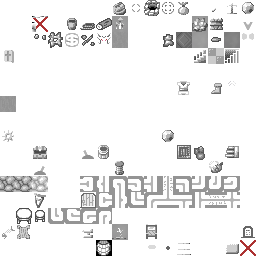
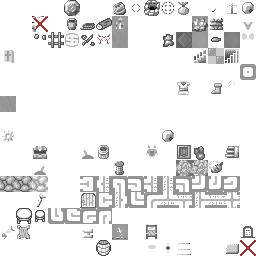
added trunks and leaves

diff --git a/changelog.md b/changelog.md
@@ -3,6 +3,22 @@ All notable changes to this project will be documented in this file.
 
 The format is based on [Keep a Changelog](https://keepachangelog.com/en/1.0.0/).
 
+## 2021-03-1
+### Added
+- Leaves/roots
+- More engraved walls
+- Tree trunk/pillar
+
+### Major changes/reworks
+- Grate
+- Crutch
+
+### Minor Tweaks
+- Wheelbarrel
+- Cage
+- Ladle/Dancer
+- Armor Stand
+
 ## 2021-02-23
 - ~scaled up for testing, may leave it this way.~
 - changed a few mineral wall tiles
